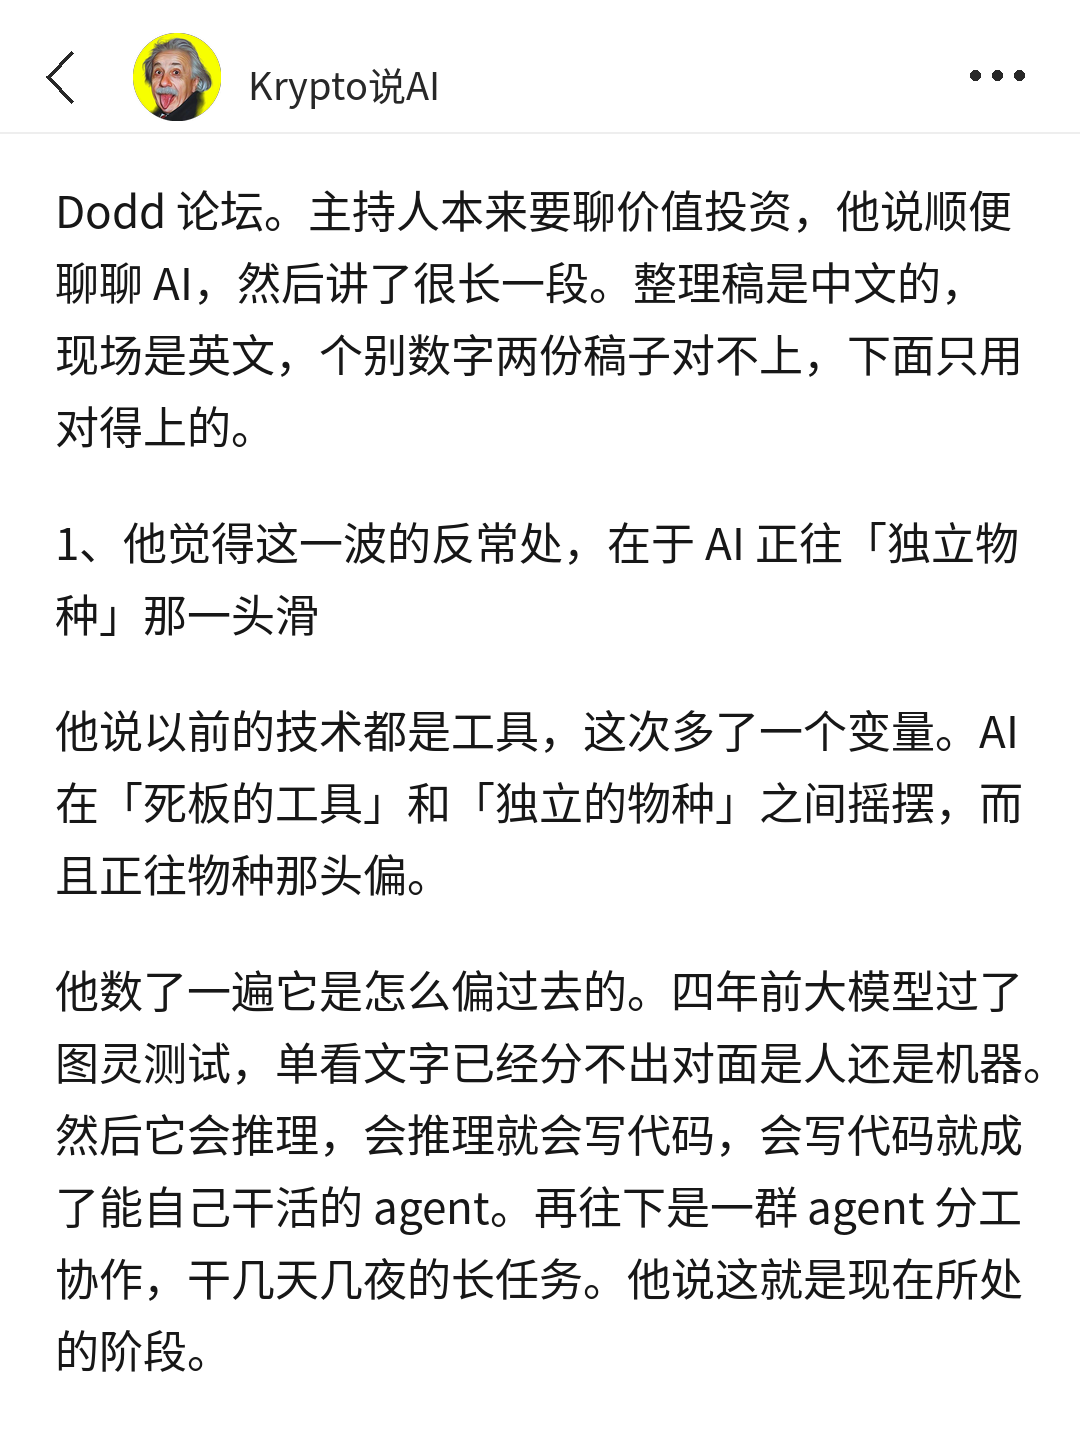
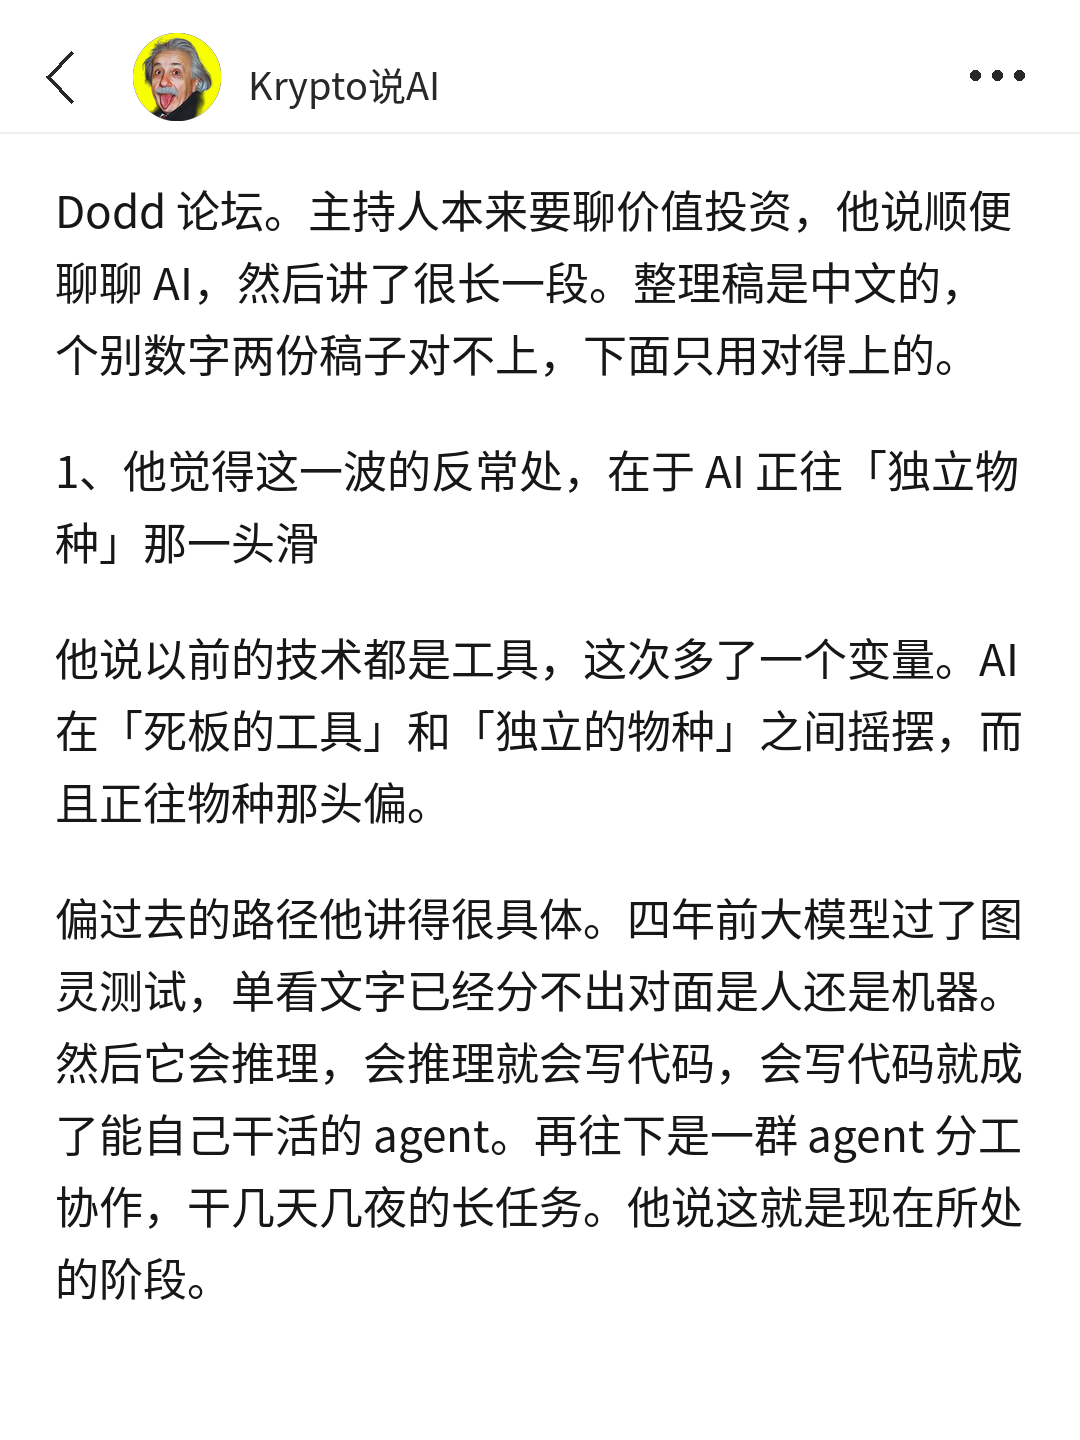
李录稿：去掉后台叙述句
Claude-Session: https://claude.ai/code/session_015PCFAaTRLY2GD1Se7DV5ug

Changed region(s): [[0.0306, 0.2188, 0.9472, 0.9688], [0.55, 0.3125, 0.9472, 0.4062]]

diff --git a/发布/2026-10-08_lilu-ai-tool-not-species/meme版/编辑用/draft.md b/发布/2026-10-08_lilu-ai-tool-not-species/meme版/编辑用/draft.md
@@ -14,13 +14,13 @@ account: Krypto说AI
 
 先说他是谁。1966 年生在唐山，哥大六年拿了三个学位，1997 年创办喜马拉雅资本。查理·芒格说自己一辈子把家族的钱交给外人管，只有李录一例。巴菲特投比亚迪，是他推荐的。
 
-这场对谈是 10 月 5 日哥大商学院的 Graham & Dodd 论坛。主持人本来要聊价值投资，他说顺便聊聊 AI，然后讲了很长一段。整理稿是中文的，现场是英文，个别数字两份稿子对不上，下面只用对得上的。
+这场对谈是 10 月 5 日哥大商学院的 Graham & Dodd 论坛。主持人本来要聊价值投资，他说顺便聊聊 AI，然后讲了很长一段。整理稿是中文的，个别数字两份稿子对不上，下面只用对得上的。
 
 1、他觉得这一波的反常处，在于 AI 正往「独立物种」那一头滑
 
 他说以前的技术都是工具，这次多了一个变量。AI 在「死板的工具」和「独立的物种」之间摇摆，而且正往物种那头偏。
 
-他数了一遍它是怎么偏过去的。四年前大模型过了图灵测试，单看文字已经分不出对面是人还是机器。然后它会推理，会推理就会写代码，会写代码就成了能自己干活的 agent。再往下是一群 agent 分工协作，干几天几夜的长任务。他说这就是现在所处的阶段。
+偏过去的路径他讲得很具体。四年前大模型过了图灵测试，单看文字已经分不出对面是人还是机器。然后它会推理，会推理就会写代码，会写代码就成了能自己干活的 agent。再往下是一群 agent 分工协作，干几天几夜的长任务。他说这就是现在所处的阶段。
 
 硅谷的讲法是下一步进入递归自我改进，意思是机器自己升级自己，不再需要人插手，之后是通用人工智能和超级人工智能，智力超过全人类加起来。他说照这个逻辑推，等于人类在造一个半神，万亿美元的 IPO 就像认购神明上市的股票。
 
